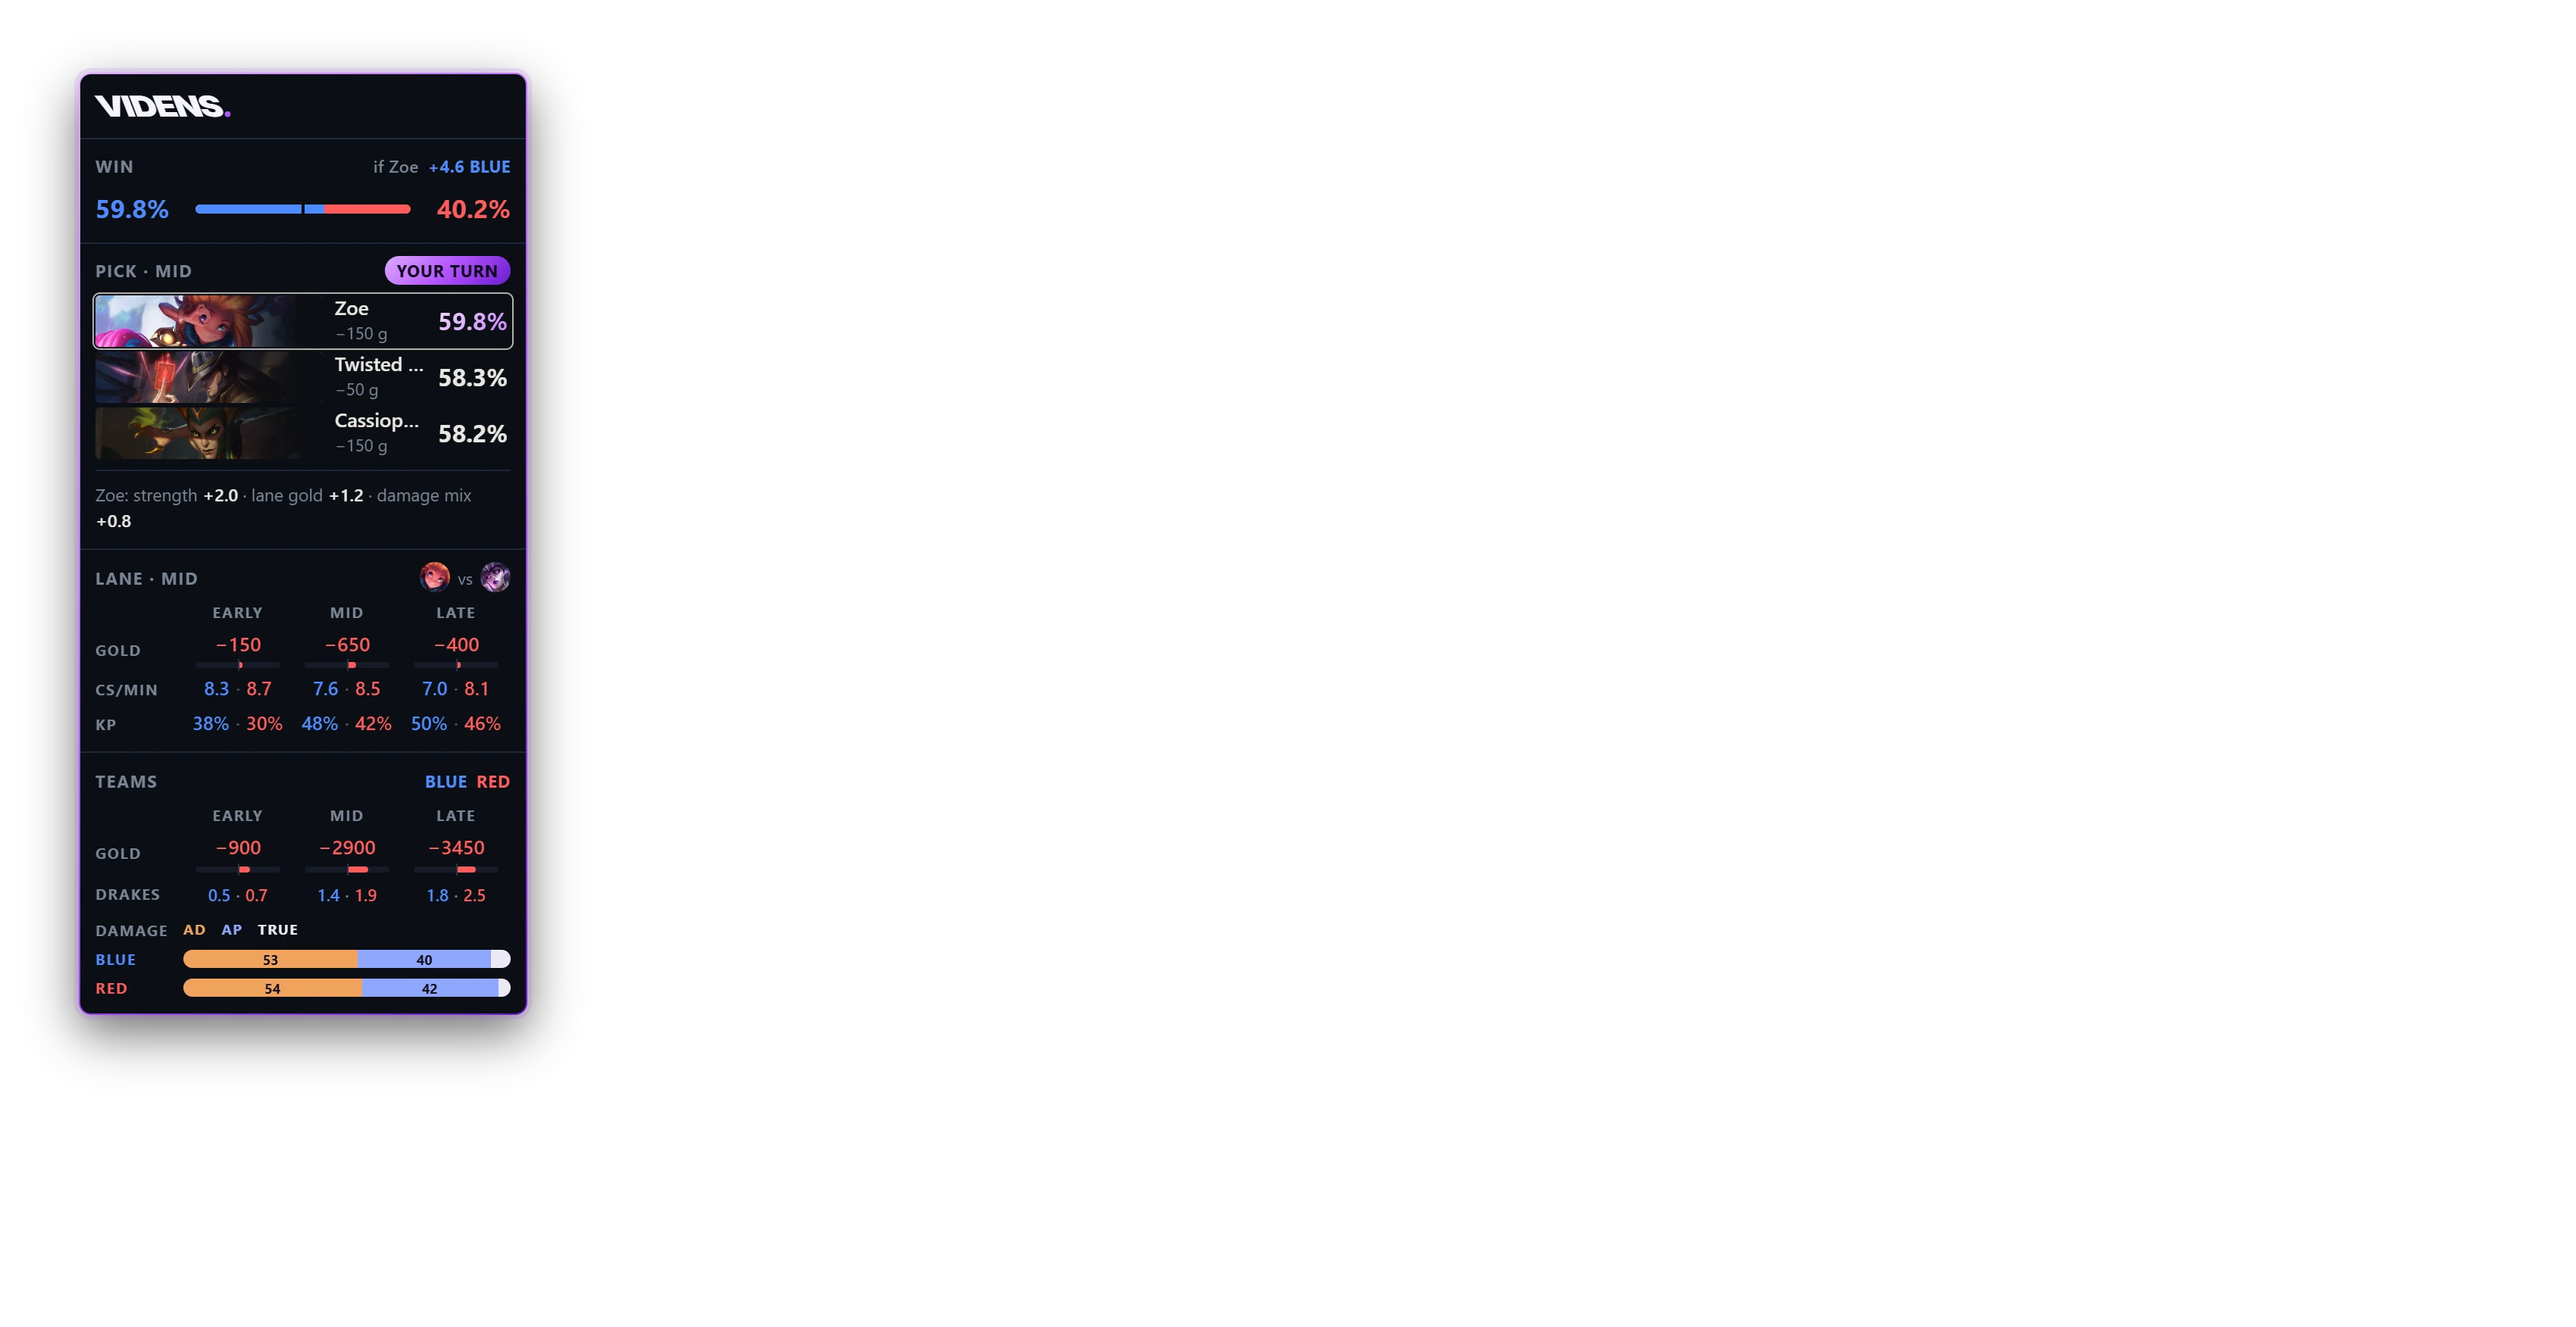
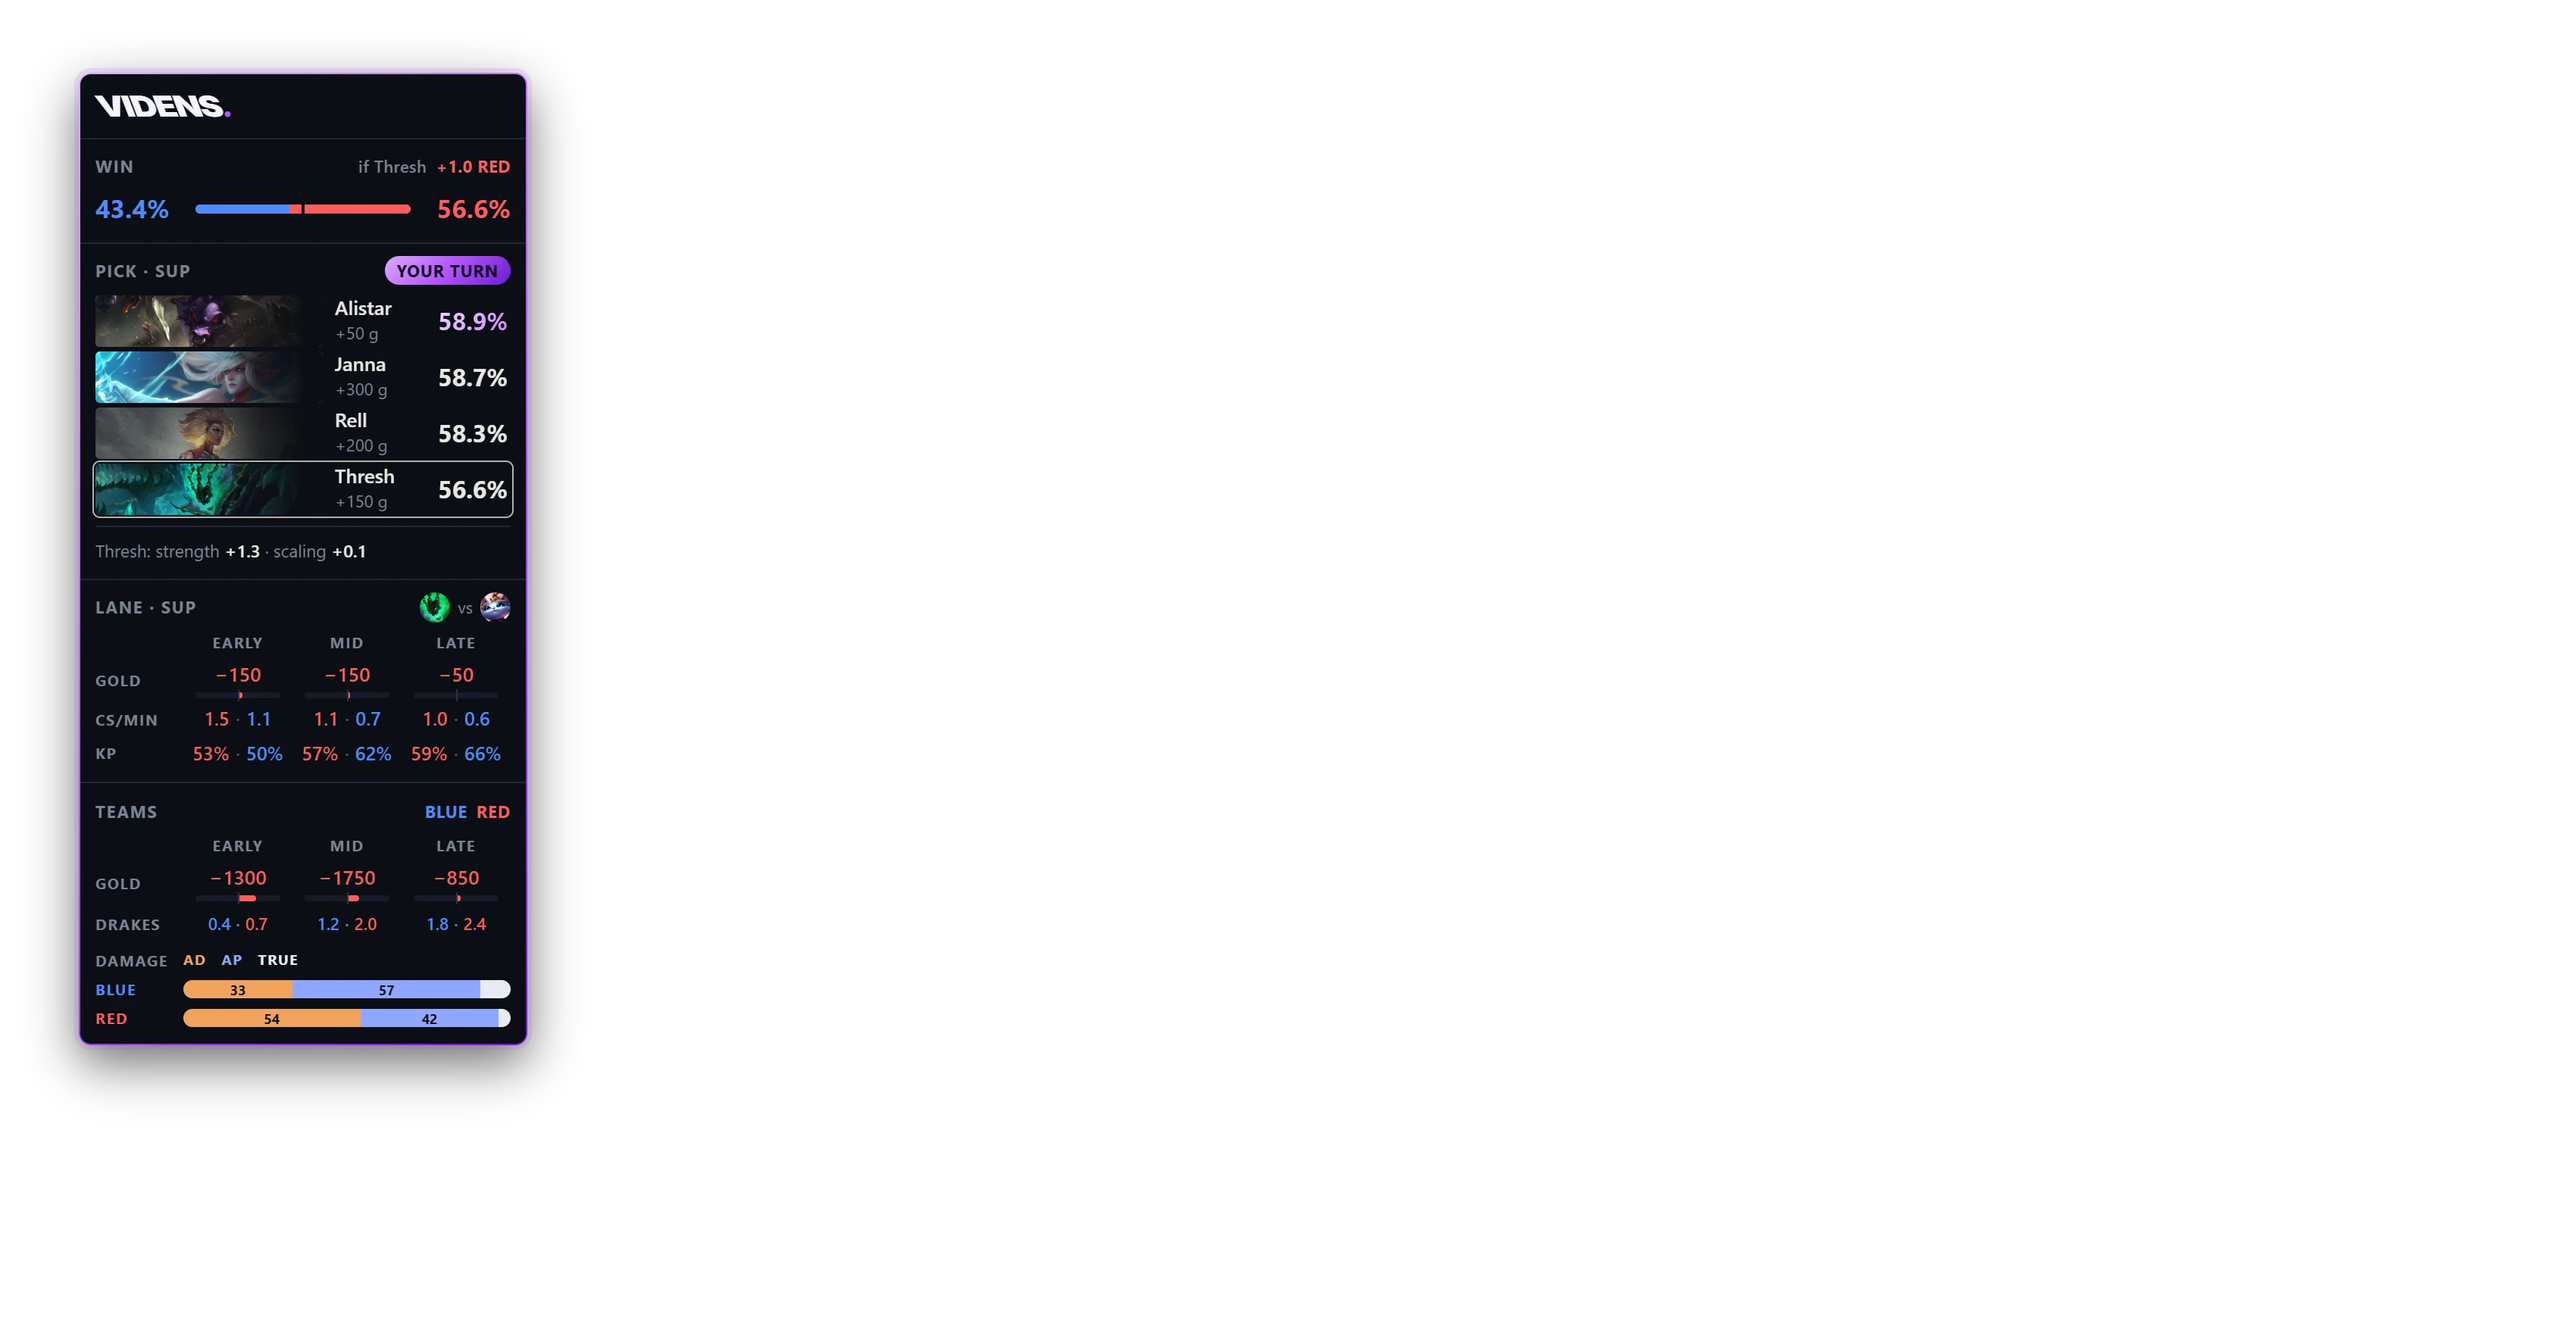
Landing: both overlays shown over a real game
Outdraft and "See what others can't." now use screenshots from a real
ranked game instead of mock screens: the champion select at the last pick
(support, Thresh), with player names, lobby chat and the rune page name
blurred, and the 16:59 fight under the enemy turret, blurred. The VIDENS.
panel and the three in-game windows in front show that exact moment's
numbers, from the recorded client data run through the drafting tool and
the overlay tracker.

diff --git a/index.html b/index.html
@@ -60,7 +60,7 @@ if (/^https?:$/.test(location.protocol) && location.pathname.endsWith(".html")) 
 
 <figure class="shot reveal">
 <div class="rig">
-<img class="bk" src="draft-overlay-back.webp" width="1700" height="876" alt="The Videns draft panel beside the champion select: win chance, the three best mid picks, lane gold, CS and kill participation against Syndra, and both teams' damage" loading="lazy" decoding="async">
+<img class="bk" src="draft-overlay-back.webp" width="1700" height="876" alt="The Videns draft panel beside a real champion select, last pick as support: win chance, the three best supports and the hovered Thresh, lane gold, CS and kill participation against Yuumi, and both teams' damage" loading="lazy" decoding="async">
 <img class="fr" src="draft-overlay-front.webp" width="1700" height="876" alt="" loading="lazy" decoding="async">
 </div>
 </figure>
@@ -78,7 +78,7 @@ if (/^https?:$/.test(location.protocol) && location.pathname.endsWith(".html")) 
 
 <figure class="shot rev reveal">
 <div class="rig">
-<img class="bk" src="live-overlay-back.webp" width="1700" height="876" alt="Three Videns windows over a game at 21:01: objectives (Baron back in 5:36, dragons 2–1 with the next in 2:43, Blue's Baron buff with 2:36 left), item gold lane by lane with Blue 11,392 ahead, and Aatrox's CS per minute, 7.3 against a 7.6 target" loading="lazy" decoding="async">
+<img class="bk" src="live-overlay-back.webp" width="1700" height="876" alt="Three Videns windows over a real game at 16:59: Baron spawning in 3:01, dragons 0–1 with the dragon up, item gold lane by lane with Red 10,400 ahead, and Thresh's CS per minute, 1.2 against a 1.3 target" loading="lazy" decoding="async">
 <img class="fr" src="live-overlay-front.webp" width="1700" height="876" alt="" loading="lazy" decoding="async">
 </div>
 </figure>
